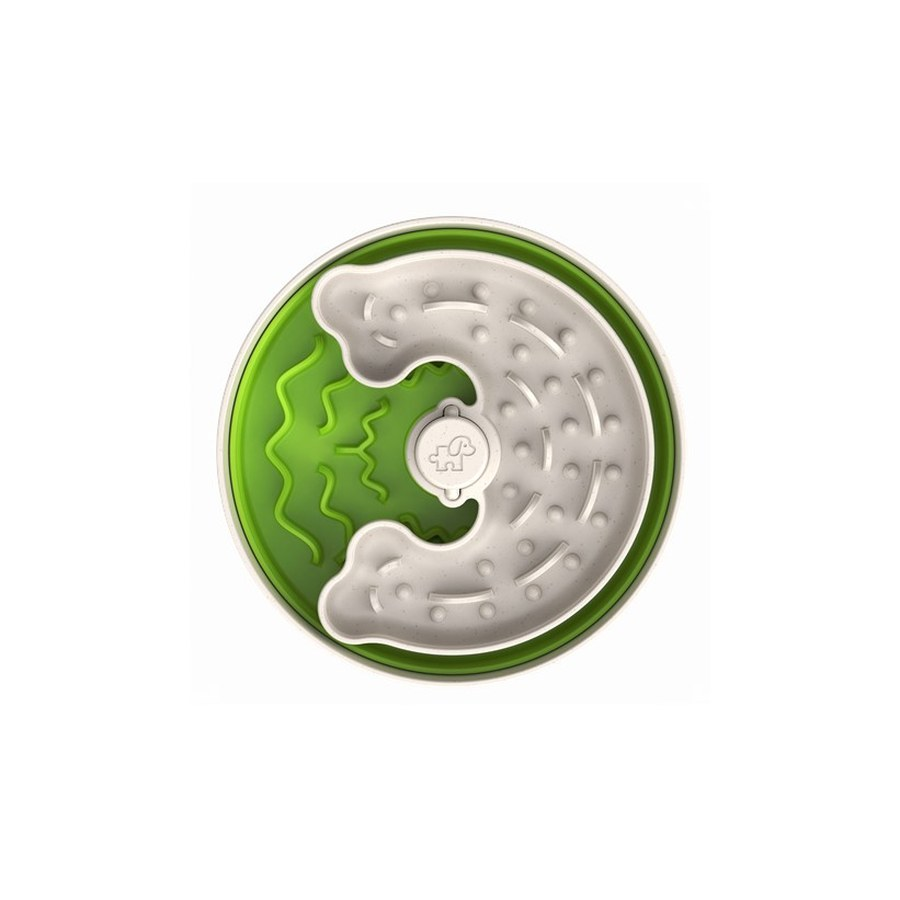
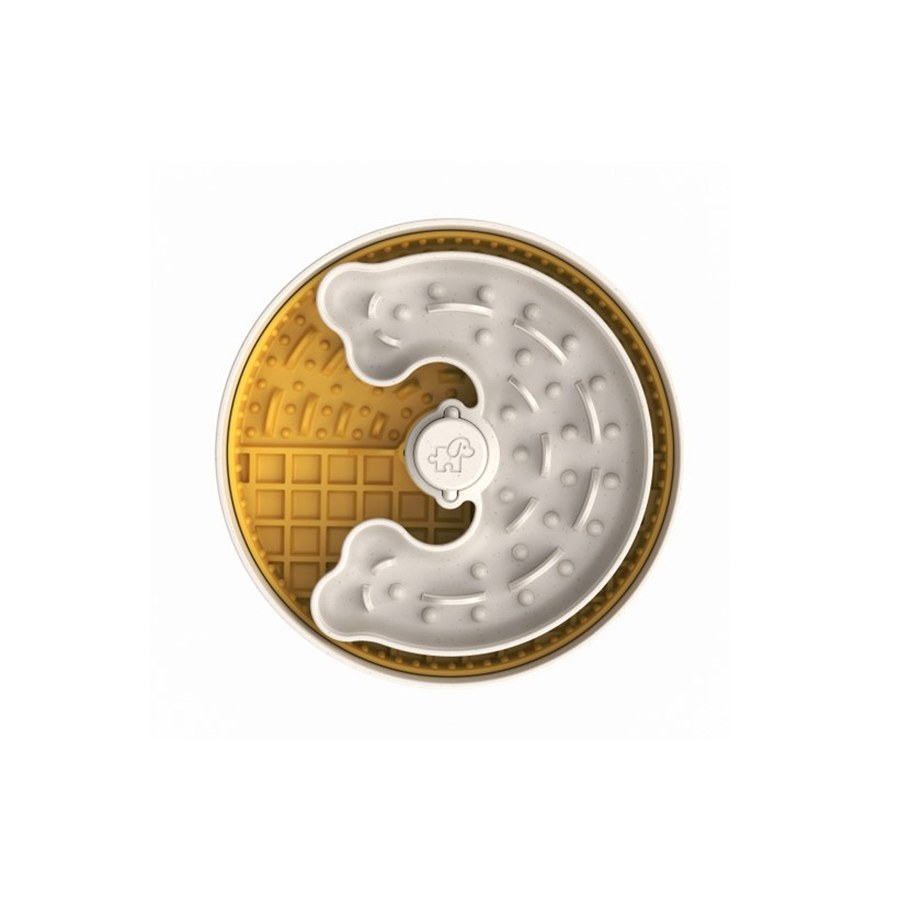
Update homepage hero photo, enlarge blobs, swap Puzzle Feeder Lite card photo

Changed region(s): [[0.2489, 0.2178, 0.7778, 0.7778]]

diff --git a/app/globals.css b/app/globals.css
@@ -236,10 +236,10 @@ nav.site-nav.scrolled { background: rgba(20,33,61,.92); backdrop-filter: blur(10
 /* ---------- Hero ---------- */
 .hero { position: relative; min-height: 100vh; min-height: 100dvh; display: flex; flex-direction: column; justify-content: center; padding: 140px 0; background: var(--navy); overflow: hidden; }
 .hero-bg-photo { position: absolute; inset: 0; width: 100%; height: 100%; object-fit: cover; opacity: .18; z-index: 0; }
-.hero .blob { width: 640px; height: 640px; background: var(--orange); opacity: .16; top: -10%; right: -12%; z-index: 0; }
-.hero .blob.b2 { width: 420px; height: 420px; background: var(--light-pitch); opacity: .14; bottom: -15%; left: -8%; animation-duration: 16s; }
-.hero .blob.b3 { width: 280px; height: 280px; background: var(--mid-cream); opacity: .10; top: 15%; left: 5%; animation-duration: 19s; animation-delay: -4s; }
-.hero .blob.b4 { width: 340px; height: 340px; background: var(--pale-orange); opacity: .12; bottom: 8%; right: 8%; animation-duration: 14s; animation-delay: -7s; }
+.hero .blob { width: 506px; height: 506px; background: var(--orange); opacity: .16; top: -10%; right: -12%; z-index: 0; }
+.hero .blob.b2 { width: 322px; height: 322px; background: var(--light-pitch); opacity: .14; bottom: -15%; left: -8%; animation-duration: 16s; }
+.hero .blob.b3 { width: 219px; height: 219px; background: var(--mid-cream); opacity: .10; top: 15%; left: 5%; animation-duration: 19s; animation-delay: -4s; }
+.hero .blob.b4 { width: 265px; height: 265px; background: var(--pale-orange); opacity: .12; bottom: 8%; right: 8%; animation-duration: 14s; animation-delay: -7s; }
 @media (min-width: 1024px) {
   .hero .blob { width: clamp(1000px, 55vw, 1400px); height: clamp(1000px, 55vw, 1400px); }
   .hero .blob.b2 { width: clamp(680px, 38vw, 950px); height: clamp(680px, 38vw, 950px); }
@@ -271,7 +271,7 @@ nav.site-nav.scrolled { background: rgba(20,33,61,.92); backdrop-filter: blur(10
 @media (max-width: 900px) { .paw-badge { display: none; } }
 
 /* Marquee ticker */
-.marquee { position: relative; z-index: 1; border-top: 1px solid rgba(245,242,235,.15); border-bottom: 1px solid rgba(245,242,235,.15); background: var(--orange); padding: 16px 0; margin-top: 64px; overflow: hidden; white-space: nowrap; }
+.marquee { position: relative; z-index: 1; border-top: 1px solid rgba(20,33,61,.12); border-bottom: 1px solid rgba(20,33,61,.12); background: var(--cream); padding: 16px 0; margin-top: 64px; overflow: hidden; white-space: nowrap; }
 .marquee-track { display: inline-flex; gap: 48px; animation: marquee 26s linear infinite; animation-play-state: paused; }
 .marquee-track.ready { animation-play-state: running; }
 .marquee:hover .marquee-track.ready { animation-play-state: paused; }

diff --git a/README.md b/README.md
@@ -1,25 +1,27 @@
-# Pawvy Website — HOTFIX: Puzzle Feeder page crash
+# Pawvy Website — patch: homepage hero photo + Puzzle Feeder Lite photo swap
 
-## The bug
-`components/BrandDeepDive.jsx` had `import { Fragment } from 'react'` but the JSX
-still referenced `React.Fragment` — `React` itself was never imported as a namespace,
-so this threw `ReferenceError: React is not defined` the moment the intro section
-actually rendered.
+## What changed
 
-**Why this passed `npm run build` locally but crashed live:** the `/brands/[slug]`
-route is server-rendered on demand (marked `ƒ` in the build output), not statically
-prerendered — so the buggy line never actually executed during `next build`'s static
-generation step. It only ran at real request time on Railway, which is why the crash
-only showed up once you loaded the live page.
+### Homepage hero
+- **New photo** — `public/hero-bg.jpg` replaced with the wider PetExpo booth shot
+  (more headroom, both of you clearly visible, nothing cropped tight against the top)
+- **Blobs enlarged ~15%** from the previous (smaller) size — main blob 440px→506px,
+  and the other three scaled the same amount
+- **Marquee ticker background changed to cream** (`#F5F2EB`) instead of orange, so it
+  doesn't clash with the orange booth counter in the photo — this was from the earlier
+  round, included again since this is a full-file delivery
 
-## The fix
-Changed `<React.Fragment key={i}>...</React.Fragment>` to `<Fragment key={i}>...</Fragment>`,
-using the import that was already there. One line changed, one file.
+### Puzzle Feeder
+- **"Puzzle Feeder Lite" card photo swapped** to the orange Lick Bowl Lite variant
+  (was green) — gives the 3 "Choose Your Fit" cards visual variety instead of all
+  reading green
 
-I also did a full manual sweep of the rest of `BrandDeepDive.jsx` (and the other
-touched files) for the same class of bug — no other stray unimported references found.
+### Files touched
+- `public/hero-bg.jpg` — replaced
+- `public/brand-features/puzzlefeeder/fit-lite.jpg` — replaced
+- `app/globals.css` — blob sizes, marquee background
 
-Rebuilt and verified clean with `npm run build`.
+`npm run build` passes clean (Next.js 16, Turbopack) — all 22 routes generated successfully.
 
 ## How to apply
 ```bash
@@ -27,7 +29,7 @@ git checkout main
 git pull origin main
 # unzip this file, "Copy and Replace" when prompted
 git add -A
-git commit -m "Hotfix: fix ReferenceError crashing the Puzzle Feeder page (React.Fragment -> Fragment)"
+git commit -m "Update homepage hero photo, enlarge blobs, swap Puzzle Feeder Lite card photo"
 git push origin main
 ```
 Railway auto-deploys from `main` on push.
